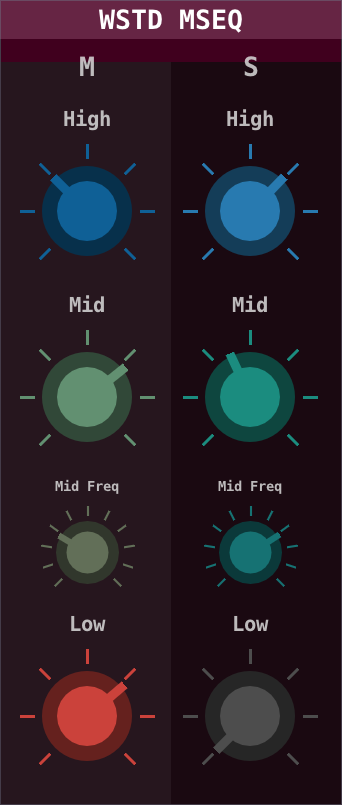
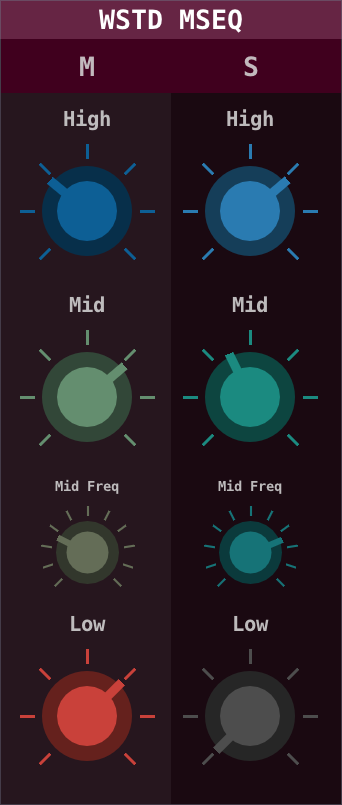
minor scaling bugfix

diff --git a/override/HeavyDPF_WSTD_MSEQ_UI.cpp b/override/HeavyDPF_WSTD_MSEQ_UI.cpp
@@ -203,7 +203,7 @@ protected:
             ImGui::PopStyleColor();
             // M/S background
             ImGui::PushStyleColor(ImGuiCol_FrameBg, ColorBright(WstdTitleBgActive, -15.0f, false));
-            drawList->AddRectFilled(ImVec2(0, 0), ImVec2(ImGui::GetWindowWidth(), 62), ImGui::GetColorU32(ImGuiCol_FrameBg));
+            drawList->AddRectFilled(ImVec2(0, 0), ImVec2(ImGui::GetWindowWidth(), 62*scaleFactor), ImGui::GetColorU32(ImGuiCol_FrameBg));
             ImGui::PopStyleColor();
 
             ImGui::BeginGroup();
